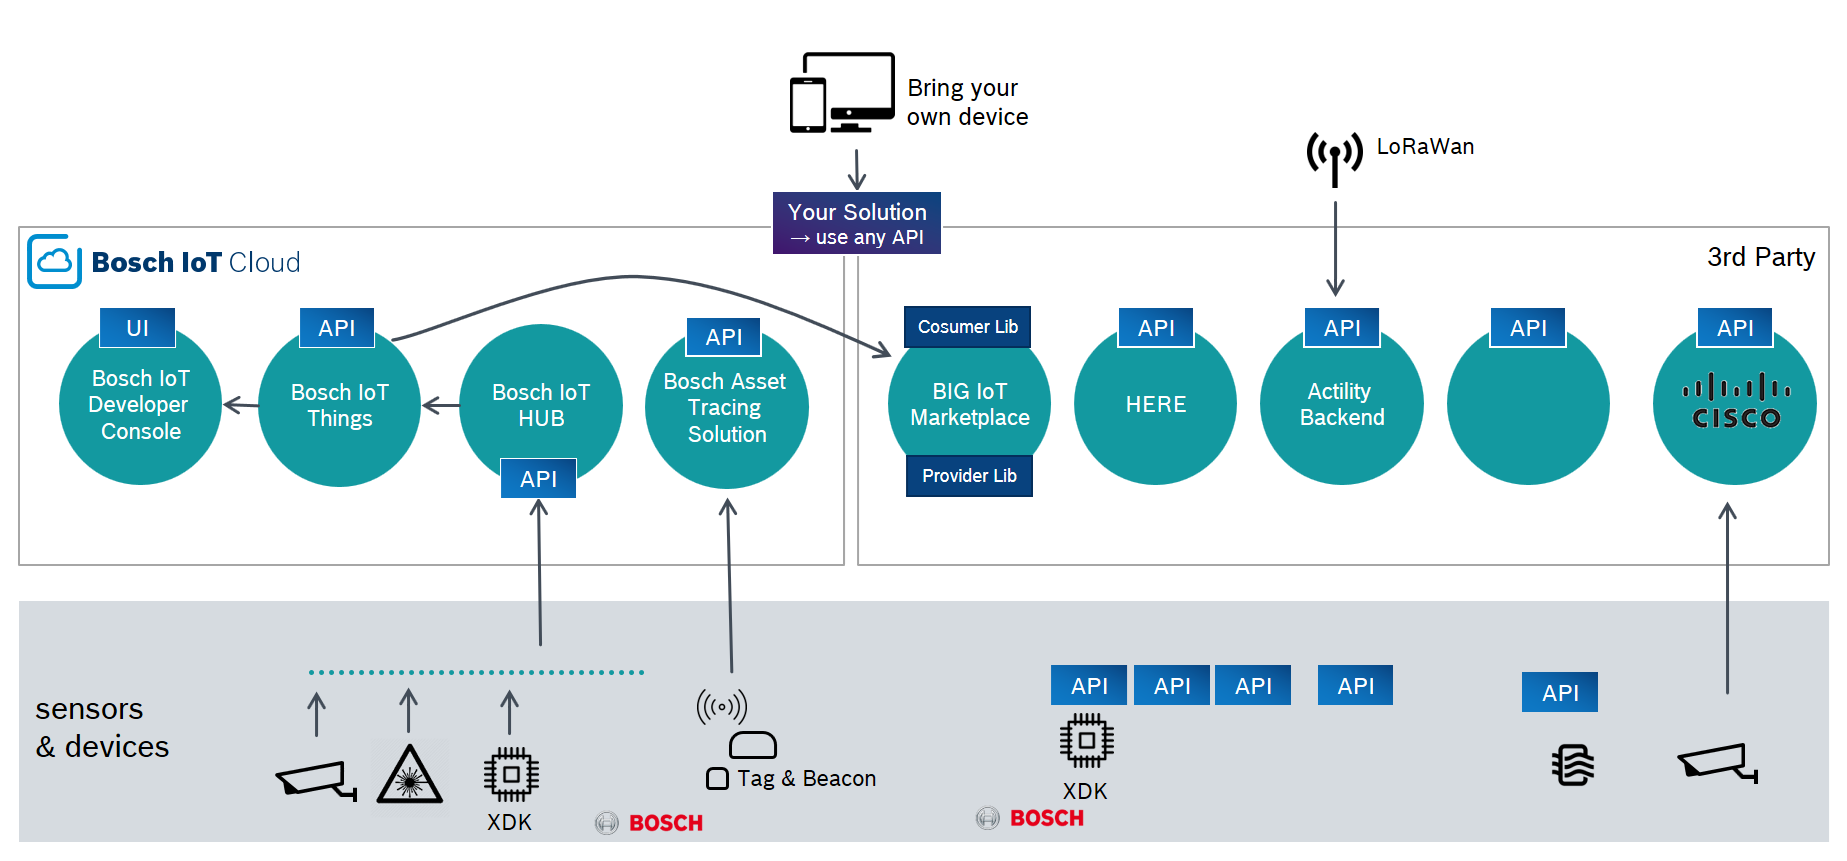
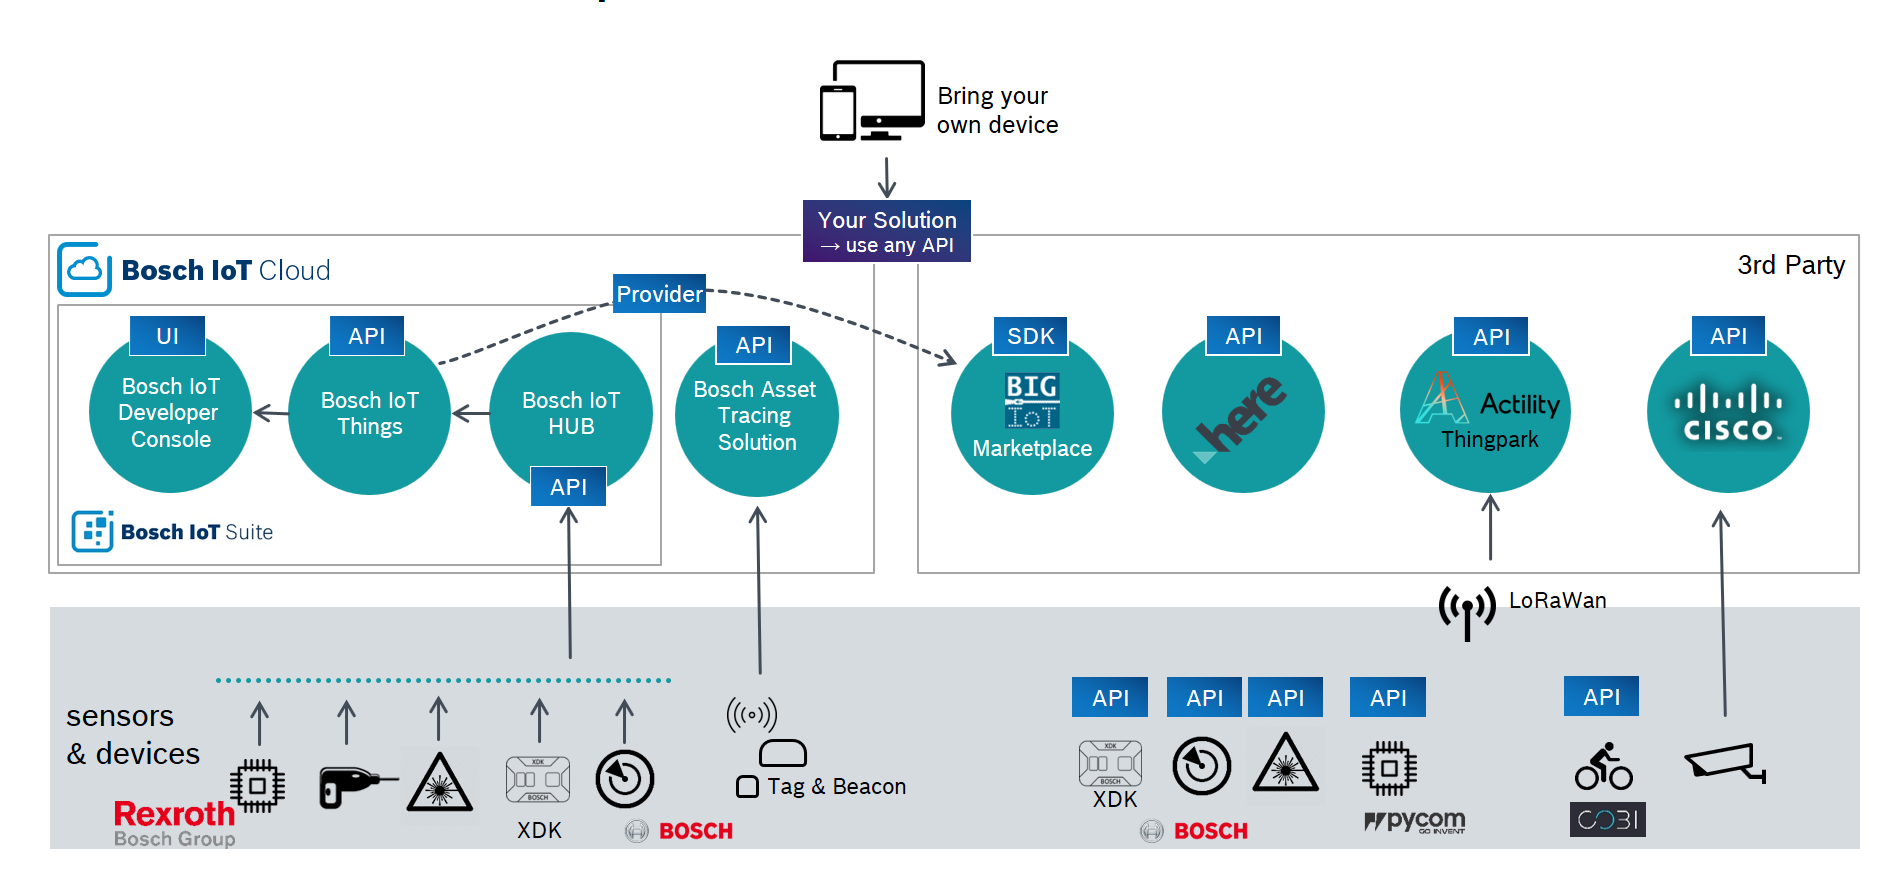
Implement new setup.png + add links to apis.

Changed region(s): [[0.0, 0.0604, 1.0, 0.9965], [0.7098, 0.151, 0.8024, 0.2114]]

diff --git a/index.html b/index.html
@@ -55,28 +55,33 @@
                                  opacity="0"></polygon>
                     </a>
                     <a>
-                        <polygon id="traffic" title="Using digital technologies, we will further develop traffic control into an intelligent system that reduces congestion and its environmental impact"
+                        <polygon id="traffic"
+                                 title="Using digital technologies, we will further develop traffic control into an intelligent system that reduces congestion and its environmental impact"
                                  points="434,737,435,576,393,572,318,737,416,737" opacity="0"/>
                     </a>
                     <a>
-                        <polygon id="constructing" title="Construction sites often seem to be disorderly because a large amount of work is done in parallel and numerous tools and machines are operating at the same time. It is essential to monitor and log activities taking place in such an environment."
+                        <polygon id="constructing"
+                                 title="Construction sites often seem to be disorderly because a large amount of work is done in parallel and numerous tools and machines are operating at the same time. It is essential to monitor and log activities taking place in such an environment."
                                  points="465,600,589,619,615,613,655,608,654,578,625,541,599,509,559,499,487,539,460,559"
                                  opacity="0"/>
                     </a>
                     <a>
-                        <polygon id="drone" title="Drones can cover large plots of land fast, something that was very expensive and cumbersome only a few years ago."
+                        <polygon id="drone"
+                                 title="Drones can cover large plots of land fast, something that was very expensive and cumbersome only a few years ago."
                                  points="336,365,355,381,376,384,397,374,410,361,402,341,379,331,354,331,331,341"
                                  opacity="0"/>
                     </a>
                     <a>
-                        <polygon id="energy" title="Digital technologies support resource efficiency and the energy transition (keyword: SmartGrids), thus contributing to sustainability in the economy and society."
+                        <polygon id="energy"
+                                 title="Digital technologies support resource efficiency and the energy transition (keyword: SmartGrids), thus contributing to sustainability in the economy and society."
                                  points="144,379,152,320,171,301,164,265,154,234,171,203,183,169,139,169,122,218,78,221,58,226,51,
                         273,12,284,10,302,39,384,87,397"
                                  opacity="0"/>
                     </a>
 
                     <a>
-                        <polygon id="building" title="The building market is increasingly challenged by digitalization, urbanization and climate change. Building management and more efficient use of empty desks can result in high cost savings."
+                        <polygon id="building"
+                                 title="The building market is increasingly challenged by digitalization, urbanization and climate change. Building management and more efficient use of empty desks can result in high cost savings."
                                  points="546,396,545,275,551,272,551,255,586,251,586,273,593,274,596,282,604,282,607,241,617,219,
                         650,221,659,245,659,393,609,404,545,405"
                                  opacity="0"/>
@@ -89,12 +94,13 @@
             <h3 style="text-align: center">Click on the api icons to access the specs</h3>
             <svg id="setupSvg" version="1.1" xmlns="http://www.w3.org/2000/svg"
                  xmlns:xlink="http://www.w3.org/1999/xlink"
-                 viewBox="0 0 1847 861">
+                 viewBox="0 0 1897 880">
                 <defs>
                     <style>
                         rect {
                             fill: transparent;
                         }
+
                         rect:hover {
                             fill: #08427E;
                             opacity: 0.5;
@@ -102,51 +108,48 @@
                         }
                     </style>
                 </defs>
-                <image width="1847" height="861" xlink:href="assets/setup.png"></image>
+                <image width="1897" height="880" xlink:href="assets/setup.png"></image>
                 <a xlink:href="" xlink:show="new">
-                    <rect x="100" y="308" width="75" height="40"></rect>
+                    <rect x="129" y="315" width="75" height="40"></rect>
+                </a>
+                <a xlink:href="https://things.s-apps.de1.bosch-iot-cloud.com/dokuwiki/doku.php?id=005_dev_guide:006_message:007_protocol_bindings:amqp10_binding" xlink:show="new">
+                    <rect x="329" y="315" width="75" height="40"></rect>
                 </a>
                 <a xlink:href="" xlink:show="new">
-                    <rect x="300" y="308" width="75" height="40"></rect>
+                    <rect x="529" y="465" width="75" height="40"></rect>
                 </a>
                 <a xlink:href="" xlink:show="new">
-                    <rect x="500" y="458" width="75" height="40"></rect>
+                    <rect x="611" y="273" width="97" height="40"></rect>
                 </a>
                 <a xlink:href="" xlink:show="new">
-                    <rect x="686" y="317" width="75" height="40"></rect>
+                    <rect x="718" y="325" width="75" height="40"></rect>
+                </a>
+                <a xlink:href="https://github.com/BCX18ConnectedLife/big-iot" xlink:show="new">
+                    <rect x="992" y="315" width="75" height="40"></rect>
                 </a>
                 <a xlink:href="" xlink:show="new">
-                    <rect x="904" y="306" width="128" height="44"></rect>
+                    <rect x="1205" y="315" width="75" height="40"></rect>
+                </a>
+                <a xlink:href="https://partners.thingpark.com" xlink:show="new">
+                    <rect x="1452" y="315" width="75" height="40"></rect>
+                </a>
+                <a xlink:href="https://developer.cisco.com/" xlink:show="new">
+                    <rect x="1690" y="315" width="75" height="40"></rect>
+                </a>
+                <a xlink:href="http://www.XDK.IO/FAQ#5_1" xlink:show="new">
+                    <rect x="1070" y="677" width="75" height="40"></rect>
                 </a>
                 <a xlink:href="" xlink:show="new">
-                    <rect x="905" y="454" width="128" height="44"></rect>
+                    <rect x="1165" y="677" width="75" height="40"></rect>
                 </a>
                 <a xlink:href="" xlink:show="new">
-                    <rect x="1118" y="308" width="75" height="40"></rect>
+                    <rect x="1248" y="677" width="75" height="40"></rect>
                 </a>
                 <a xlink:href="" xlink:show="new">
-                    <rect x="1305" y="308" width="75" height="40"></rect>
+                    <rect x="1349" y="677" width="75" height="40"></rect>
                 </a>
-                <a xlink:href="" xlink:show="new">
-                    <rect x="1490" y="308" width="75" height="40"></rect>
-                </a>
-                <a xlink:href="" xlink:show="new">
-                    <rect x="1697" y="308" width="75" height="40"></rect>
-                </a>
-                <a xlink:href="" xlink:show="new">
-                    <rect x="1050" y="665" width="75" height="40"></rect>
-                </a>
-                <a xlink:href="" xlink:show="new">
-                    <rect x="1133" y="665" width="75" height="40"></rect>
-                </a>
-                <a xlink:href="" xlink:show="new">
-                    <rect x="1215" y="665" width="75" height="40"></rect>
-                </a>
-                <a xlink:href="" xlink:show="new">
-                    <rect x="1317" y="665" width="75" height="40"></rect>
-                </a>
-                <a xlink:href="" xlink:show="new">
-                    <rect x="1522" y="672" width="75" height="40"></rect>
+                <a xlink:href="https://cobi.bike/connect" xlink:show="new">
+                    <rect x="1562" y="677" width="75" height="40"></rect>
                 </a>
             </svg>
         </div>
